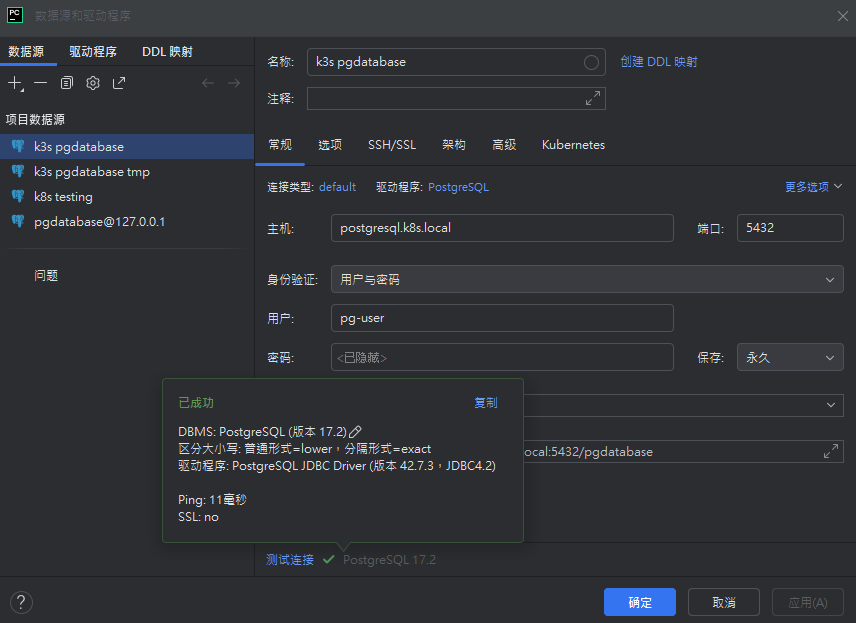
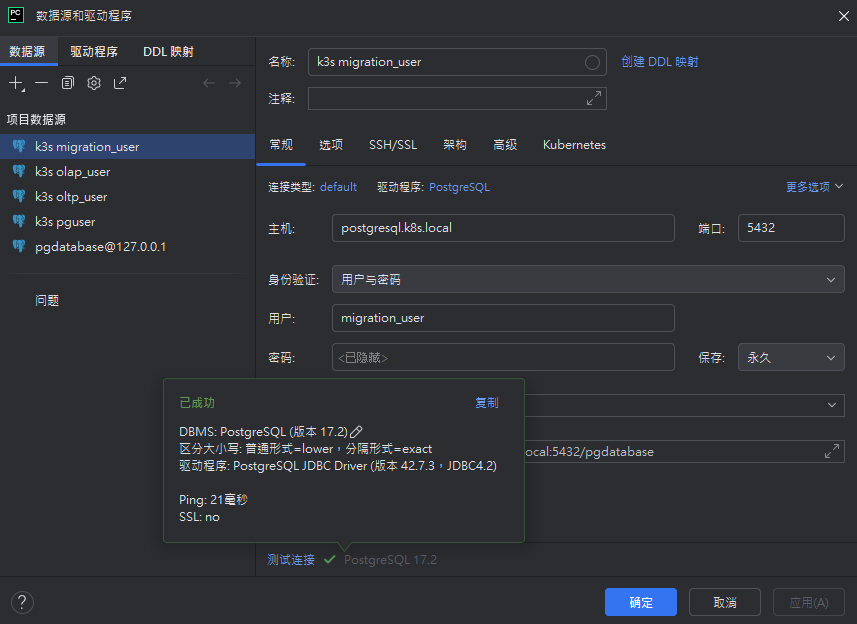
update somethings

diff --git a/infra/k3s_migration/infra-live/README.md b/infra/k3s_migration/infra-live/README.md
@@ -796,6 +796,9 @@ DEBUG
             helm template charts/platform/ingress-nginx -f charts/platform/ingress-nginx/values/common.yaml -f environments/homelab-test/ingress-nginx-values.yaml --set namespaceOverride=homelab-test > output.yaml
             helm template charts/platform/ingress-nginx -f charts/platform/harbor/values/common.yaml -f environments/homelab-test/harbor-values.yaml --set namespaceOverride=homelab-test > output.yaml
             helm template charts/platform/ingress-nginx -f charts/platform/registry/values/common.yaml -f environments/homelab-test/registry-values.yaml --set namespaceOverride=homelab-test > output.yaml
+            
+            helm template charts/pg-apps/cp -f charts/pg-apps/cp/values/common.yaml -f environments/homelab-test/cp-values.yaml --set namespaceOverride=homelab-test > output.yaml
+            helm template charts/pg-apps/inst -f charts/pg-apps/inst/values/common.yaml -f environments/homelab-test/inst-values.yaml --set namespaceOverride=homelab-test > output.yaml
         
         grep -rn "homelab" output.yaml
         grep -rn "key" output.yaml

diff --git a/docs/Dev-Services.md b/docs/Dev-Services.md
@@ -563,9 +563,11 @@
   
     # 指令本地映像檔(含標籤) → 映射到庫的設定
     docker tag pg-python-cp:v1 127.0.0.1:5100/pg-python-cp:v1
+    docker tag pg-python-cp:v1 docker-registry.k8s.local/pg-python-cp:v1
     
     # 推庫
     docker push 127.0.0.1:5100/pg-python-cp:v1
+    docker push docker-registry.k8s.local/pg-python-cp:v1
     
   # 實用查詢
     # 已建立映像庫